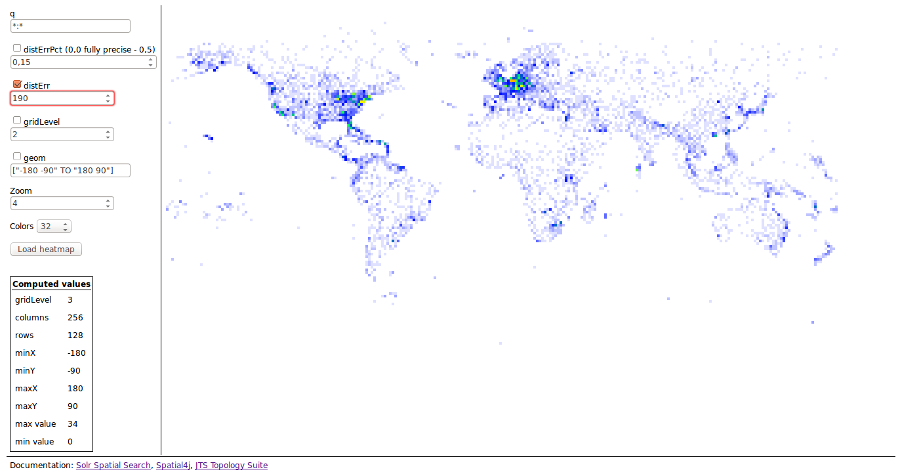
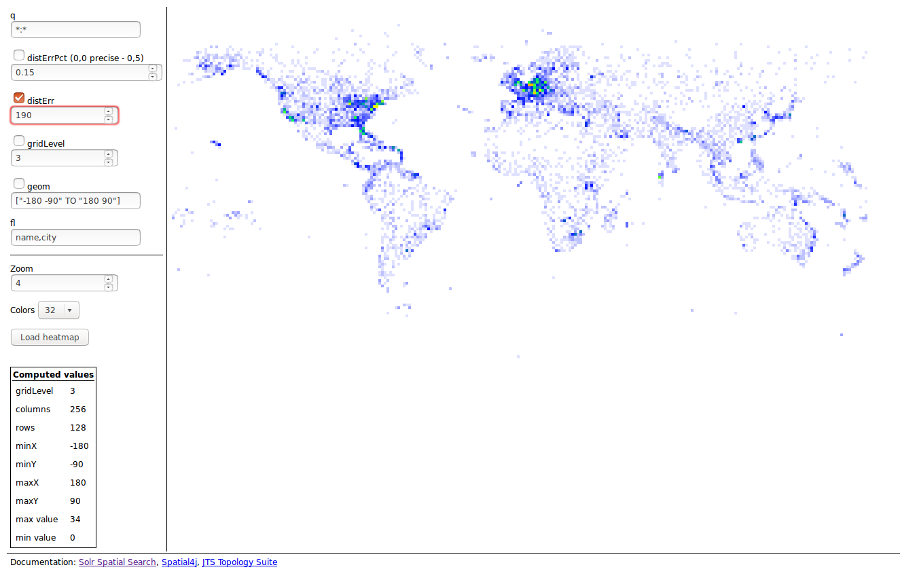
Updated help and screenshot.

diff --git a/README.md b/README.md
@@ -19,9 +19,10 @@ Open the `config.yaml` file. It looks like this:
       index: heatmap.html
 
     solr:
-      base_url: "http://localhost:8983/solr/airports/select?facet.heatmap=location_rpt"
+      base_url: "http://localhost:8983/solr/airports/select"
+      rpt_field: location_rpt
 
-You have to change the Solr base URL: it must be complete up to the name of the field containing your geographical data (in this example `location_rpt`). It must be an RPT type field.
+You have to change the Solr base URL: it must be complete up to the name of the handler. In the `rpt_field` parameter you should put the name of the field containing your geographical data (in this example `location_rpt`). It must be an RPT type field.
 
 If you like you can also change the port used by the server.
 
@@ -43,6 +44,8 @@ After you change the parameters you have to press on the "Load heatmap" button t
 Solr's parameters are sent only if the corresponding checkbox is selected.
 
 The "Computed values" box is populated after the heatmap has been loaded to show you what Solr returns. It's interesting, for example, to see how the `gridLevel` changes depending on the `distErrPct` or `geom` parameters.
+
+When you click on a cell a query is executed to retrieve, for each record belonging to that cell, the fields specified in the `fl` box: this box should contain a comma separated list of field names; if it's empty all the fields are retrieved. Then an alert is displayed with the data and the boundaries of the cell, that may be useful if you want to copy and paste them in the `geom` box to zoom into the cell.
 
 ### About colors
 
